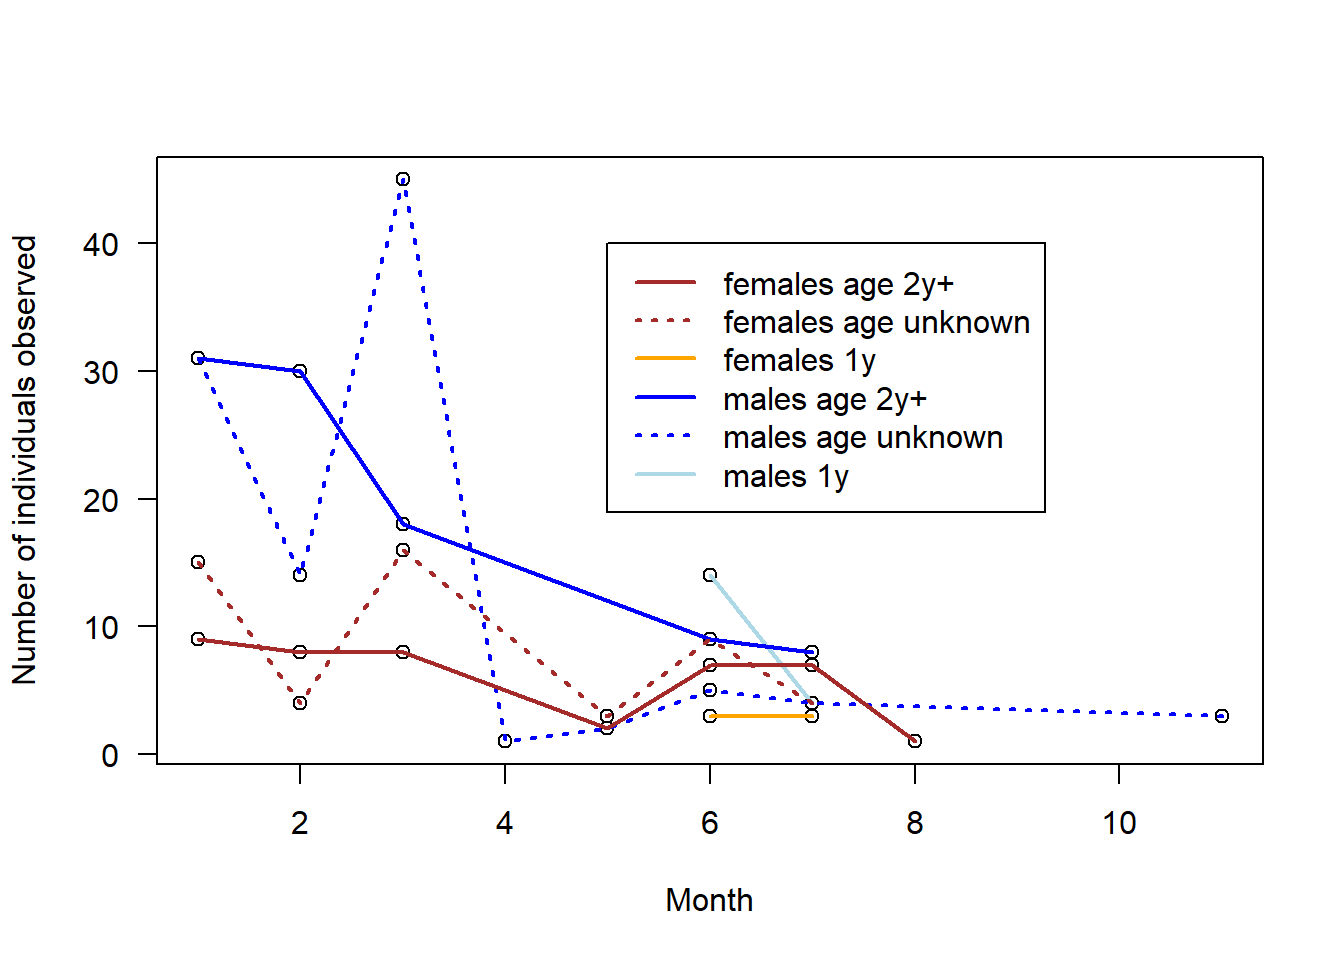
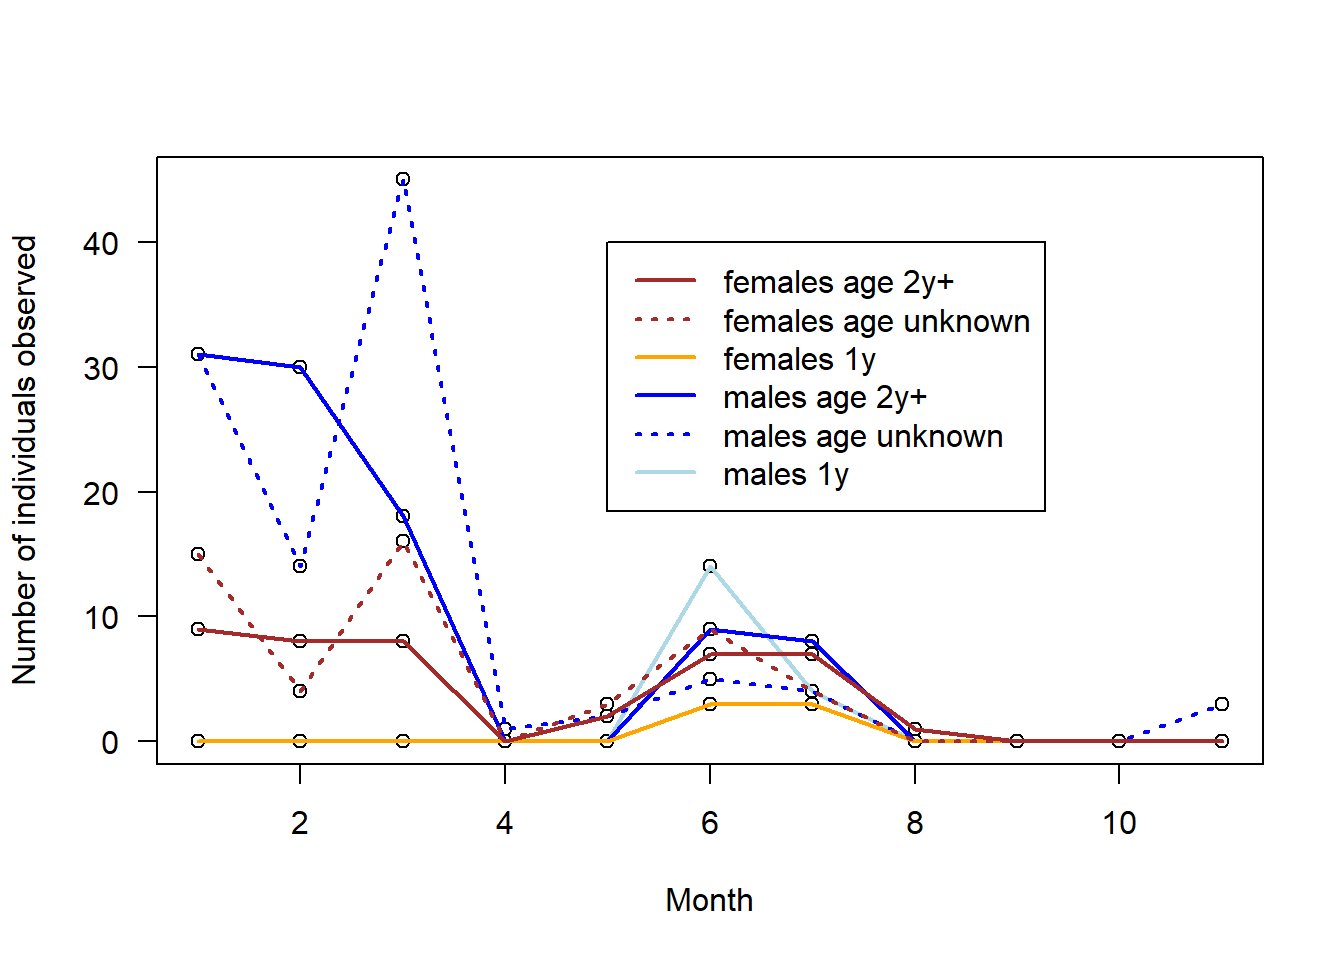
figure corrected

diff --git a/docs/Sec-StudentProjects.html b/docs/Sec-StudentProjects.html
@@ -383,8 +383,6 @@ or R-package afpt</p>
 <h2><span class="header-section-number">12.9</span> Partial migration: Who stays in winter?</h2>
 <p>In partially migratory species, some individuals migrate while others remain as year-round residents. Partial migration is widespread among birds. Who migrates can be determined genetically, by individual charachters (sex, age, body condition), or by environmental conditions. We expect that individuals migrating benefit from a higher survival because they escape unfriendly winter conditions. On the other hand, those individuals enduring winter at the breeding site may benefit from an increased reproductive success, e.g., because they can start earlier, know the breeding sites and may occupy better breeding territories, or because they have more chances for mating.</p>
 <p>The White-winged Snowfinch <em>Montifringilla nivalis nivalis</em> is a partial migrant living at high elevations (above the tree line) in southern European mountain areas. In other subspecies, the species occurs in mountain areas from Turkey eastward until the Himalaya. The Snowfinch is highly adapted to living at high-elevation harsh climate. In Switzerland, it can be observed during winter at feeders in ski areas or mountain huts. Its migration behaviour is still largely unknown. In the Pyrenees and in southern France, wintering indivividuals can be regularly observed, ocassionally in large numbers. Ring recoveries also indicate seasonal migration (Fig. <a href="Sec-StudentProjects.html#fig:migsnowfinch">12.1</a>).</p>
-<div class="sourceCode" id="cb5"><pre class="sourceCode r"><code class="sourceCode r"><a class="sourceLine" id="cb5-1" title="1"><span class="kw">library</span>(knitr)</a>
-<a class="sourceLine" id="cb5-2" title="2"><span class="kw">include_graphics</span>(<span class="st">&quot;figures/ring_recoveries_Snowfinch.jpg&quot;</span>)</a></code></pre></div>
 <div class="figure"><span id="fig:migsnowfinch"></span>
 <img src="figures/ring_recoveries_Snowfinch.jpg" alt="Seasonal migration of Snowfinches as observed by ring recoveries. Arrows connect the ringing location with the recovery location. Blue = ringed during winter and recovered during summer (spring migration). Red = ringed during summer and recovered during winter (autumn migration)."  />
 <p class="caption">
@@ -403,44 +401,51 @@ Figure 12.1: Seasonal migration of Snowfinches as observed by ring recoveries. A
 <p>Use a mark-resighting data set of Snowfinches from the Swiss Alps to describe which individuals spend the winter in the breeding areas (Swiss Alps). The example data contain capturing and resighting dates for individuals with known age and sex.</p>
 <p>The age is coded as 1 = nestling, 3 = first calendar year, 4 = not first calendar year, 5 = second calendar year, 6 = older than second calendar year.</p>
 <p>The below R-code can be used to start with. It extracts the number of individuals (number of different ring numbers) seen for each month. The observation effort differed over time but we can assume that it was the same for all age and sex classes.</p>
-<div class="sourceCode" id="cb6"><pre class="sourceCode r"><code class="sourceCode r"><a class="sourceLine" id="cb6-1" title="1"><span class="kw">load</span>(<span class="st">&quot;data/Snowfinch_resightings.rda&quot;</span>)</a>
-<a class="sourceLine" id="cb6-2" title="2">aggdat &lt;-<span class="st"> </span><span class="kw">aggregate</span>(ringnr<span class="op">~</span>month<span class="op">+</span>sex<span class="op">+</span>age, <span class="dt">data=</span>dat, <span class="cf">function</span>(x) <span class="kw">nlevels</span>(<span class="kw">factor</span>(x)))</a>
-<a class="sourceLine" id="cb6-3" title="3">aggdat &lt;-<span class="st"> </span>aggdat[aggdat<span class="op">$</span>age<span class="op">&gt;</span><span class="dv">3</span>,] <span class="co"># only include individuals from their first winter onward (delete nestlings and first calendar-year birds)</span></a>
-<a class="sourceLine" id="cb6-4" title="4"></a>
-<a class="sourceLine" id="cb6-5" title="5"><span class="kw">plot</span>(aggdat<span class="op">$</span>month, aggdat<span class="op">$</span>ringnr,</a>
-<a class="sourceLine" id="cb6-6" title="6">     <span class="dt">las=</span><span class="dv">1</span>, <span class="dt">ylab=</span><span class="st">&quot;Number of individuals observed&quot;</span>, <span class="dt">xlab=</span><span class="st">&quot;Month&quot;</span>)</a>
-<a class="sourceLine" id="cb6-7" title="7"><span class="co"># first year males</span></a>
-<a class="sourceLine" id="cb6-8" title="8">index &lt;-<span class="st"> </span>aggdat<span class="op">$</span>age<span class="op">==</span><span class="dv">5</span><span class="op">&amp;</span>aggdat<span class="op">$</span>sex<span class="op">==</span><span class="st">&quot;m&quot;</span></a>
-<a class="sourceLine" id="cb6-9" title="9"><span class="kw">lines</span>(aggdat<span class="op">$</span>month[index], aggdat<span class="op">$</span>ringnr[index], <span class="dt">lwd=</span><span class="dv">2</span>, <span class="dt">col=</span><span class="st">&quot;lightblue&quot;</span>)</a>
-<a class="sourceLine" id="cb6-10" title="10"></a>
-<a class="sourceLine" id="cb6-11" title="11"><span class="co"># second year and older males</span></a>
-<a class="sourceLine" id="cb6-12" title="12">index &lt;-<span class="st"> </span>aggdat<span class="op">$</span>age<span class="op">==</span><span class="dv">6</span><span class="op">&amp;</span>aggdat<span class="op">$</span>sex<span class="op">==</span><span class="st">&quot;m&quot;</span></a>
-<a class="sourceLine" id="cb6-13" title="13"><span class="kw">lines</span>(aggdat<span class="op">$</span>month[index], aggdat<span class="op">$</span>ringnr[index], <span class="dt">lwd=</span><span class="dv">2</span>, </a>
-<a class="sourceLine" id="cb6-14" title="14">      <span class="dt">col=</span><span class="st">&quot;blue&quot;</span>)</a>
-<a class="sourceLine" id="cb6-15" title="15"></a>
-<a class="sourceLine" id="cb6-16" title="16"><span class="co"># males, age not identified</span></a>
-<a class="sourceLine" id="cb6-17" title="17">index &lt;-<span class="st"> </span>aggdat<span class="op">$</span>age<span class="op">==</span><span class="dv">4</span><span class="op">&amp;</span>aggdat<span class="op">$</span>sex<span class="op">==</span><span class="st">&quot;m&quot;</span></a>
-<a class="sourceLine" id="cb6-18" title="18"><span class="kw">lines</span>(aggdat<span class="op">$</span>month[index], aggdat<span class="op">$</span>ringnr[index], <span class="dt">lwd=</span><span class="dv">2</span>, </a>
-<a class="sourceLine" id="cb6-19" title="19">      <span class="dt">col=</span><span class="st">&quot;blue&quot;</span>, <span class="dt">lty=</span><span class="dv">3</span>)</a>
-<a class="sourceLine" id="cb6-20" title="20"></a>
-<a class="sourceLine" id="cb6-21" title="21"></a>
-<a class="sourceLine" id="cb6-22" title="22"><span class="co"># first year females</span></a>
-<a class="sourceLine" id="cb6-23" title="23">index &lt;-<span class="st"> </span>aggdat<span class="op">$</span>age<span class="op">==</span><span class="dv">5</span><span class="op">&amp;</span>aggdat<span class="op">$</span>sex<span class="op">==</span><span class="st">&quot;f&quot;</span></a>
-<a class="sourceLine" id="cb6-24" title="24"><span class="kw">lines</span>(aggdat<span class="op">$</span>month[index], aggdat<span class="op">$</span>ringnr[index], <span class="dt">lwd=</span><span class="dv">2</span>, </a>
-<a class="sourceLine" id="cb6-25" title="25">      <span class="dt">col=</span><span class="st">&quot;orange&quot;</span>)</a>
-<a class="sourceLine" id="cb6-26" title="26"></a>
-<a class="sourceLine" id="cb6-27" title="27"></a>
-<a class="sourceLine" id="cb6-28" title="28"><span class="co"># second year and older females</span></a>
-<a class="sourceLine" id="cb6-29" title="29">index &lt;-<span class="st"> </span>aggdat<span class="op">$</span>age<span class="op">==</span><span class="dv">6</span><span class="op">&amp;</span>aggdat<span class="op">$</span>sex<span class="op">==</span><span class="st">&quot;f&quot;</span></a>
-<a class="sourceLine" id="cb6-30" title="30"><span class="kw">lines</span>(aggdat<span class="op">$</span>month[index], aggdat<span class="op">$</span>ringnr[index], <span class="dt">lwd=</span><span class="dv">2</span>, </a>
-<a class="sourceLine" id="cb6-31" title="31">      <span class="dt">col=</span><span class="st">&quot;brown&quot;</span>)</a>
-<a class="sourceLine" id="cb6-32" title="32"></a>
-<a class="sourceLine" id="cb6-33" title="33"><span class="co"># females, age not identified</span></a>
-<a class="sourceLine" id="cb6-34" title="34">index &lt;-<span class="st"> </span>aggdat<span class="op">$</span>age<span class="op">==</span><span class="dv">4</span><span class="op">&amp;</span>aggdat<span class="op">$</span>sex<span class="op">==</span><span class="st">&quot;f&quot;</span></a>
-<a class="sourceLine" id="cb6-35" title="35"><span class="kw">lines</span>(aggdat<span class="op">$</span>month[index], aggdat<span class="op">$</span>ringnr[index], <span class="dt">lwd=</span><span class="dv">2</span>, </a>
-<a class="sourceLine" id="cb6-36" title="36">      <span class="dt">col=</span><span class="st">&quot;brown&quot;</span>, <span class="dt">lty=</span><span class="dv">3</span>)</a>
-<a class="sourceLine" id="cb6-37" title="37"></a>
-<a class="sourceLine" id="cb6-38" title="38"><span class="kw">legend</span>(<span class="dv">5</span>, <span class="dv">40</span>, <span class="dt">lwd=</span><span class="dv">2</span>, <span class="dt">lty=</span><span class="kw">c</span>(<span class="dv">1</span>,<span class="dv">3</span>,<span class="dv">1</span>,<span class="dv">1</span>,<span class="dv">3</span>,<span class="dv">1</span>), <span class="dt">col=</span><span class="kw">c</span>(<span class="st">&quot;brown&quot;</span>, <span class="st">&quot;brown&quot;</span>, <span class="st">&quot;orange&quot;</span>, <span class="st">&quot;blue&quot;</span>, <span class="st">&quot;blue&quot;</span>, <span class="st">&quot;lightblue&quot;</span>), <span class="dt">legend=</span><span class="kw">c</span>(<span class="st">&quot;females age 2y+&quot;</span>, <span class="st">&quot;females age unknown&quot;</span>, <span class="st">&quot;females 1y&quot;</span>, <span class="st">&quot;males age 2y+&quot;</span>, <span class="st">&quot;males age unknown&quot;</span>, <span class="st">&quot;males 1y&quot;</span>))</a></code></pre></div>
+<div class="sourceCode" id="cb5"><pre class="sourceCode r"><code class="sourceCode r"><a class="sourceLine" id="cb5-1" title="1"><span class="kw">load</span>(<span class="st">&quot;data/Snowfinch_resightings.rda&quot;</span>)</a>
+<a class="sourceLine" id="cb5-2" title="2">aggdat &lt;-<span class="st"> </span><span class="kw">aggregate</span>(ringnr<span class="op">~</span>month<span class="op">+</span>sex<span class="op">+</span>age, <span class="dt">data=</span>dat, <span class="cf">function</span>(x) <span class="kw">nlevels</span>(<span class="kw">factor</span>(x)))</a>
+<a class="sourceLine" id="cb5-3" title="3">aggdat &lt;-<span class="st"> </span>aggdat[aggdat<span class="op">$</span>age<span class="op">&gt;</span><span class="dv">3</span>,] <span class="co"># only include individuals from their first winter onward (delete nestlings and first calendar-year birds)</span></a>
+<a class="sourceLine" id="cb5-4" title="4"></a>
+<a class="sourceLine" id="cb5-5" title="5"><span class="co"># include months with no individuals observed</span></a>
+<a class="sourceLine" id="cb5-6" title="6">datcomplete &lt;-<span class="st"> </span><span class="kw">expand.grid</span>(<span class="dt">month=</span><span class="dv">1</span><span class="op">:</span><span class="dv">11</span>, <span class="dt">sex=</span><span class="kw">c</span>(<span class="st">&quot;f&quot;</span>, <span class="st">&quot;m&quot;</span>), <span class="dt">age=</span><span class="kw">c</span>(<span class="dv">4</span>,<span class="dv">5</span>,<span class="dv">6</span>))</a>
+<a class="sourceLine" id="cb5-7" title="7">rowid &lt;-<span class="st"> </span><span class="kw">paste</span>(datcomplete<span class="op">$</span>month, datcomplete<span class="op">$</span>sex, datcomplete<span class="op">$</span>age)</a>
+<a class="sourceLine" id="cb5-8" title="8">rowidaggdat &lt;-<span class="st"> </span><span class="kw">paste</span>(aggdat<span class="op">$</span>month, aggdat<span class="op">$</span>sex, aggdat<span class="op">$</span>age)</a>
+<a class="sourceLine" id="cb5-9" title="9">datcomplete<span class="op">$</span>n &lt;-<span class="st"> </span>aggdat<span class="op">$</span>ringnr[<span class="kw">match</span>(rowid, rowidaggdat)]</a>
+<a class="sourceLine" id="cb5-10" title="10">datcomplete<span class="op">$</span>n[<span class="kw">is.na</span>(datcomplete<span class="op">$</span>n)] &lt;-<span class="st"> </span><span class="dv">0</span></a>
+<a class="sourceLine" id="cb5-11" title="11"></a>
+<a class="sourceLine" id="cb5-12" title="12"><span class="kw">plot</span>(datcomplete<span class="op">$</span>month, datcomplete<span class="op">$</span>n,</a>
+<a class="sourceLine" id="cb5-13" title="13">     <span class="dt">las=</span><span class="dv">1</span>, <span class="dt">ylab=</span><span class="st">&quot;Number of individuals observed&quot;</span>, <span class="dt">xlab=</span><span class="st">&quot;Month&quot;</span>)</a>
+<a class="sourceLine" id="cb5-14" title="14"><span class="co"># first year males</span></a>
+<a class="sourceLine" id="cb5-15" title="15">index &lt;-<span class="st"> </span>datcomplete<span class="op">$</span>age<span class="op">==</span><span class="dv">5</span><span class="op">&amp;</span>datcomplete<span class="op">$</span>sex<span class="op">==</span><span class="st">&quot;m&quot;</span></a>
+<a class="sourceLine" id="cb5-16" title="16"><span class="kw">lines</span>(datcomplete<span class="op">$</span>month[index], datcomplete<span class="op">$</span>n[index], <span class="dt">lwd=</span><span class="dv">2</span>, <span class="dt">col=</span><span class="st">&quot;lightblue&quot;</span>)</a>
+<a class="sourceLine" id="cb5-17" title="17"></a>
+<a class="sourceLine" id="cb5-18" title="18"><span class="co"># second year and older males</span></a>
+<a class="sourceLine" id="cb5-19" title="19">index &lt;-<span class="st"> </span>datcomplete<span class="op">$</span>age<span class="op">==</span><span class="dv">6</span><span class="op">&amp;</span>datcomplete<span class="op">$</span>sex<span class="op">==</span><span class="st">&quot;m&quot;</span></a>
+<a class="sourceLine" id="cb5-20" title="20"><span class="kw">lines</span>(datcomplete<span class="op">$</span>month[index], datcomplete<span class="op">$</span>n[index], <span class="dt">lwd=</span><span class="dv">2</span>, </a>
+<a class="sourceLine" id="cb5-21" title="21">      <span class="dt">col=</span><span class="st">&quot;blue&quot;</span>)</a>
+<a class="sourceLine" id="cb5-22" title="22"></a>
+<a class="sourceLine" id="cb5-23" title="23"><span class="co"># males, age not identified</span></a>
+<a class="sourceLine" id="cb5-24" title="24">index &lt;-<span class="st"> </span>datcomplete<span class="op">$</span>age<span class="op">==</span><span class="dv">4</span><span class="op">&amp;</span>datcomplete<span class="op">$</span>sex<span class="op">==</span><span class="st">&quot;m&quot;</span></a>
+<a class="sourceLine" id="cb5-25" title="25"><span class="kw">lines</span>(datcomplete<span class="op">$</span>month[index], datcomplete<span class="op">$</span>n[index], <span class="dt">lwd=</span><span class="dv">2</span>, </a>
+<a class="sourceLine" id="cb5-26" title="26">      <span class="dt">col=</span><span class="st">&quot;blue&quot;</span>, <span class="dt">lty=</span><span class="dv">3</span>)</a>
+<a class="sourceLine" id="cb5-27" title="27"></a>
+<a class="sourceLine" id="cb5-28" title="28"></a>
+<a class="sourceLine" id="cb5-29" title="29"><span class="co"># first year females</span></a>
+<a class="sourceLine" id="cb5-30" title="30">index &lt;-<span class="st"> </span>datcomplete<span class="op">$</span>age<span class="op">==</span><span class="dv">5</span><span class="op">&amp;</span>datcomplete<span class="op">$</span>sex<span class="op">==</span><span class="st">&quot;f&quot;</span></a>
+<a class="sourceLine" id="cb5-31" title="31"><span class="kw">lines</span>(datcomplete<span class="op">$</span>month[index], datcomplete<span class="op">$</span>n[index], <span class="dt">lwd=</span><span class="dv">2</span>, </a>
+<a class="sourceLine" id="cb5-32" title="32">      <span class="dt">col=</span><span class="st">&quot;orange&quot;</span>)</a>
+<a class="sourceLine" id="cb5-33" title="33"></a>
+<a class="sourceLine" id="cb5-34" title="34"></a>
+<a class="sourceLine" id="cb5-35" title="35"><span class="co"># second year and older females</span></a>
+<a class="sourceLine" id="cb5-36" title="36">index &lt;-<span class="st"> </span>datcomplete<span class="op">$</span>age<span class="op">==</span><span class="dv">6</span><span class="op">&amp;</span>datcomplete<span class="op">$</span>sex<span class="op">==</span><span class="st">&quot;f&quot;</span></a>
+<a class="sourceLine" id="cb5-37" title="37"><span class="kw">lines</span>(datcomplete<span class="op">$</span>month[index], datcomplete<span class="op">$</span>n[index], <span class="dt">lwd=</span><span class="dv">2</span>, </a>
+<a class="sourceLine" id="cb5-38" title="38">      <span class="dt">col=</span><span class="st">&quot;brown&quot;</span>)</a>
+<a class="sourceLine" id="cb5-39" title="39"></a>
+<a class="sourceLine" id="cb5-40" title="40"><span class="co"># females, age not identified</span></a>
+<a class="sourceLine" id="cb5-41" title="41">index &lt;-<span class="st"> </span>datcomplete<span class="op">$</span>age<span class="op">==</span><span class="dv">4</span><span class="op">&amp;</span>datcomplete<span class="op">$</span>sex<span class="op">==</span><span class="st">&quot;f&quot;</span></a>
+<a class="sourceLine" id="cb5-42" title="42"><span class="kw">lines</span>(datcomplete<span class="op">$</span>month[index], datcomplete<span class="op">$</span>n[index], <span class="dt">lwd=</span><span class="dv">2</span>, </a>
+<a class="sourceLine" id="cb5-43" title="43">      <span class="dt">col=</span><span class="st">&quot;brown&quot;</span>, <span class="dt">lty=</span><span class="dv">3</span>)</a>
+<a class="sourceLine" id="cb5-44" title="44"></a>
+<a class="sourceLine" id="cb5-45" title="45"><span class="kw">legend</span>(<span class="dv">5</span>, <span class="dv">40</span>, <span class="dt">lwd=</span><span class="dv">2</span>, <span class="dt">lty=</span><span class="kw">c</span>(<span class="dv">1</span>,<span class="dv">3</span>,<span class="dv">1</span>,<span class="dv">1</span>,<span class="dv">3</span>,<span class="dv">1</span>), <span class="dt">col=</span><span class="kw">c</span>(<span class="st">&quot;brown&quot;</span>, <span class="st">&quot;brown&quot;</span>, <span class="st">&quot;orange&quot;</span>, <span class="st">&quot;blue&quot;</span>, <span class="st">&quot;blue&quot;</span>, <span class="st">&quot;lightblue&quot;</span>), <span class="dt">legend=</span><span class="kw">c</span>(<span class="st">&quot;females age 2y+&quot;</span>, <span class="st">&quot;females age unknown&quot;</span>, <span class="st">&quot;females 1y&quot;</span>, <span class="st">&quot;males age 2y+&quot;</span>, <span class="st">&quot;males age unknown&quot;</span>, <span class="st">&quot;males 1y&quot;</span>))</a></code></pre></div>
 <div class="figure"><span id="fig:resight"></span>
 <img src="11-StudentProjects_files/figure-html/resight-1.png" alt="Number of individuals observed per month for each age and sex class" width="672" />
 <p class="caption">
